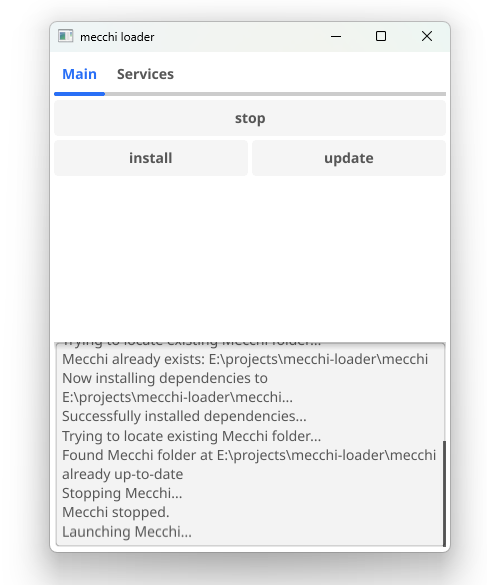
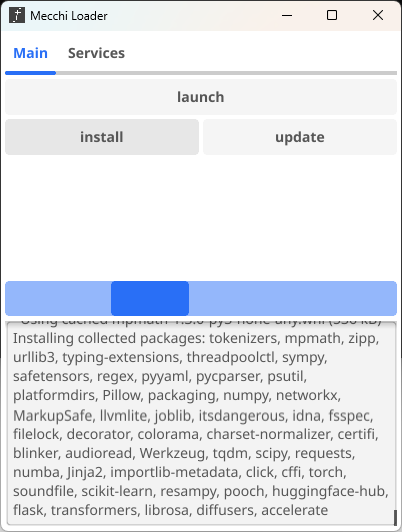
fix errors, replace screenshot

diff --git a/utils.go b/utils.go
@@ -55,7 +55,7 @@ func MecchiFolderExists() LoaderResult[string] {
 		return LoaderResult[string]{success: false, error: err.Error()}
 	}
 
-	subdirectory, err := FindFile(currentDir, "src", "mecchi.py")
+	subdirectory, err := FindMecchiDirectory(currentDir)
 
 	if err != nil {
 		return LoaderResult[string]{success: false, error: err.Error()}
@@ -64,34 +64,49 @@ func MecchiFolderExists() LoaderResult[string] {
 	if subdirectory != "" {
 		return LoaderResult[string]{success: true, result: subdirectory}
 	} else {
-		return LoaderResult[string]{success: false, error: "mecchi folder not found"}
+		return LoaderResult[string]{success: false, error: currentDir}
 	}
 }
 
-func FindFile(rootPath string, foldername string, filename string) (string, error) {
-	var resultPath string
+func containsFile(folderPath string, targetFile string) bool {
+	filePath := filepath.Join(folderPath, targetFile)
+	_, err := os.Stat(filePath)
+	return err == nil
+}
 
-	err := filepath.WalkDir(rootPath, func(path string, d os.DirEntry, err error) error {
-		if err != nil {
-			return err
+func FindMecchiDirectory(rootPath string) (string, error) {
+	targetFolder := "src"
+	targetFile := "mecchi.py"
+
+	folders, err := os.ReadDir(rootPath)
+
+	for _, folder := range folders {
+		if folder.IsDir() {
+			fmt.Println(folder.Name())
 		}
-
-		if d.IsDir() && d.Name() == foldername {
-			targetFilePath := filepath.Join(path, filename)
-			if _, err := os.Stat(targetFilePath); err == nil {
-				resultPath = filepath.Dir(path)
-				return filepath.SkipDir
-			}
-		}
-
-		return nil
-	})
+	}
 
 	if err != nil {
+		fmt.Printf(err.Error())
 		return "", err
 	}
 
-	return resultPath, nil
+	for _, folder := range folders {
+		if folder.IsDir() {
+			subfolderPath := filepath.Join(rootPath, folder.Name())
+			srcFilePath := filepath.Join(subfolderPath, targetFolder, targetFile)
+			fmt.Println(srcFilePath)
+
+			_, err := os.Stat(srcFilePath)
+			if err == nil {
+				fmt.Println("found " + subfolderPath)
+				return subfolderPath, nil
+			}
+
+		}
+	}
+
+	return "", nil
 }
 
 func OpenInBrowser(url string) error {

diff --git a/main.go b/main.go
@@ -57,7 +57,7 @@ func MainUi(input *widget.Entry, loading func(bool)) *fyne.Container {
 			mecchiFolder := MecchiFolderExists()
 
 			if !mecchiFolder.success {
-				OutputResult(input, "Mecchi does not exist, install it first!")
+				OutputResult(input, "Mecchi does not exist, install it first! "+mecchiFolder.error)
 			} else {
 				OutputResult(input, "Launching Mecchi...")
 				mecchiProcess := LaunchMecchi(mecchiFolder.result, input)

diff --git a/func-main.go b/func-main.go
@@ -21,13 +21,9 @@ func CloneMecchi() LoaderResult[string] {
 
 	fullPath := filepath.Join(currentDir, MecchiFolder)
 
-	_, err := git.PlainClone(fullPath, false, &git.CloneOptions{
+	git.PlainClone(fullPath, false, &git.CloneOptions{
 		URL: MecchiRepo,
 	})
-
-	if err != nil {
-		return LoaderResult[string]{success: false, error: err.Error()}
-	}
 
 	return LoaderResult[string]{success: true, result: fullPath}
 }

diff --git a/mecchi-loader.go b/mecchi-loader.go
@@ -11,7 +11,7 @@ import (
 func main() {
 	mecchiLoader := app.New()
 
-	window := mecchiLoader.NewWindow("mecchi loader")
+	window := mecchiLoader.NewWindow("Mecchi Loader")
 	window.Resize(fyne.NewSize(WindowWidth, WindowHeight))
 
 	input := widget.NewMultiLineEntry()
